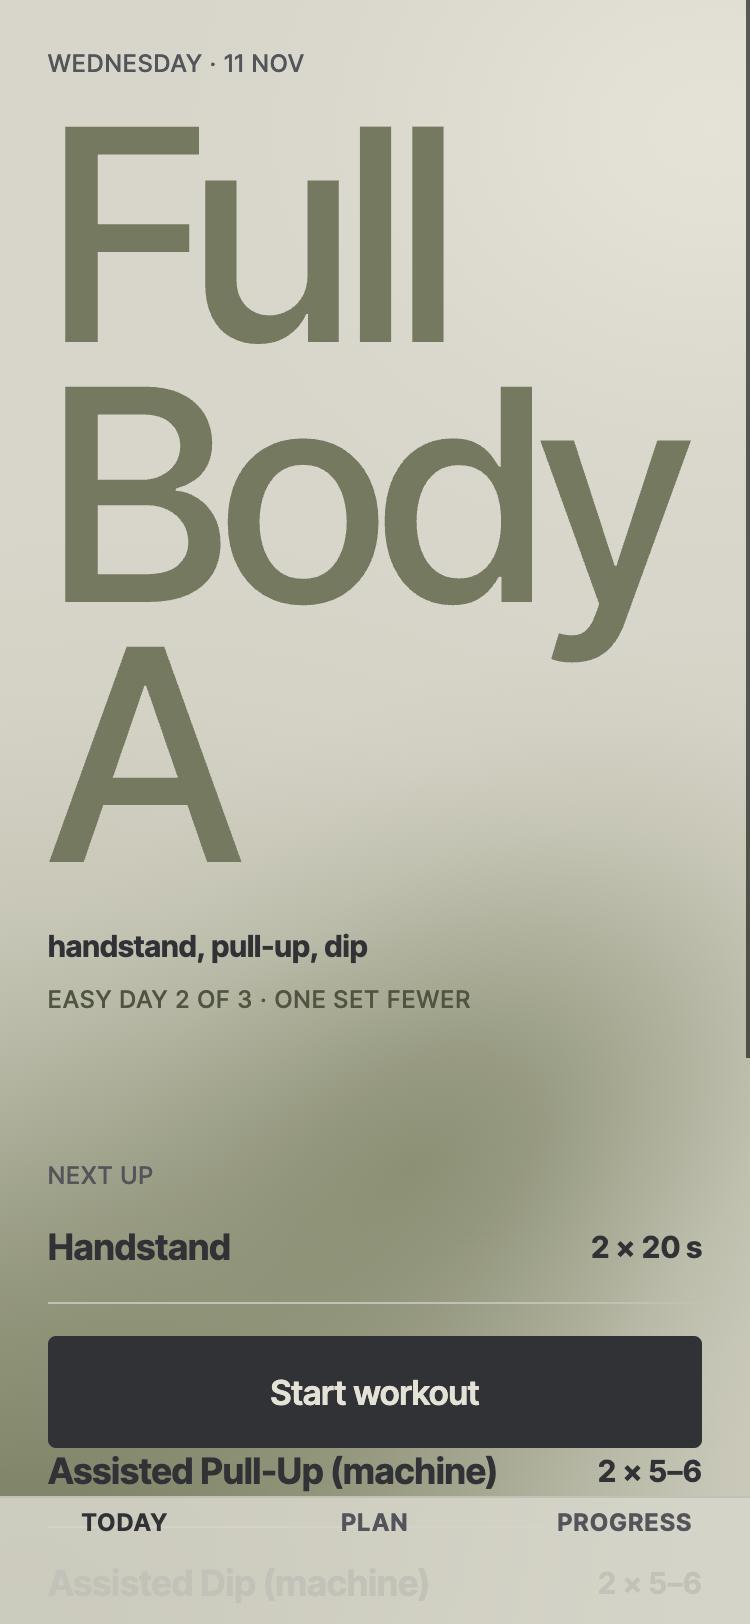
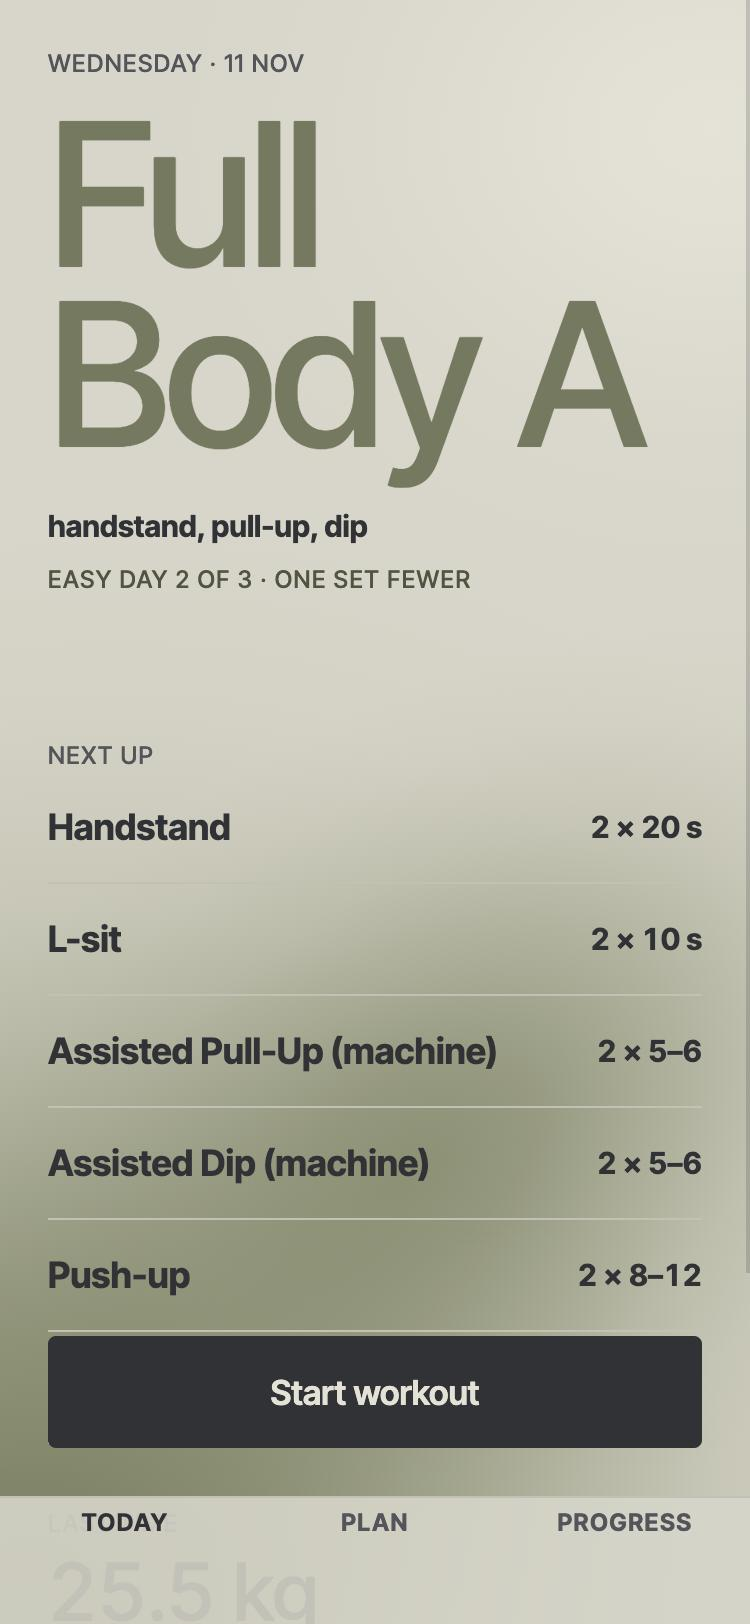
design: titles 100px

diff --git a/theme.ts b/theme.ts
@@ -29,8 +29,8 @@ export const fonts = {
 const tabular: TextStyle = { fontVariant: ["tabular-nums"] };
 
 export const type = {
-  display: { fontFamily: fonts.medium, fontSize: 148, lineHeight: 130, letterSpacing: -4.44, color: colors.accent } as TextStyle,
-  displayOnDark: { fontFamily: fonts.medium, fontSize: 148, lineHeight: 130, letterSpacing: -4.44, color: colors.accentOnDark } as TextStyle,
+  display: { fontFamily: fonts.medium, fontSize: 100, lineHeight: 90, letterSpacing: -3, color: colors.accent } as TextStyle,
+  displayOnDark: { fontFamily: fonts.medium, fontSize: 100, lineHeight: 90, letterSpacing: -3, color: colors.accentOnDark } as TextStyle,
   number: { fontFamily: fonts.medium, fontSize: 40, lineHeight: 44, color: colors.ink, ...tabular } as TextStyle,
   exercise: { fontFamily: fonts.bold, fontSize: 18, lineHeight: 22, color: colors.ink } as TextStyle,
   body: { fontFamily: fonts.regular, fontSize: 13, lineHeight: 18, color: colors.ink } as TextStyle,

diff --git a/app/(tabs)/index.tsx b/app/(tabs)/index.tsx
@@ -19,7 +19,7 @@ export default function Home() {
     <SafeAreaView style={s.screen} edges={["top"]}>
       <ScrollView contentContainerStyle={s.scroll}>
         <Text style={[type.label, { marginTop: 24 }]}>{DAY[now.getDay()]} · {now.getDate()} Nov</Text>
-        <Text style={[type.display, { marginTop: 12 }]}>{w ? w.title.split(" ").join("\n") : ""}</Text>
+        <Text style={[type.display, { marginTop: 12 }]}>{w ? w.title : ""}</Text>
         <Text style={[type.exercise, { marginTop: 20, fontSize: 15 }]}>{w ? w.subtitle : ""}</Text>
         <Text style={[type.labelAccent, { marginTop: 8 }]}>Easy day 2 of 3 · one set fewer</Text>
 

diff --git a/design/brief.md b/design/brief.md
@@ -22,7 +22,7 @@ No white anywhere. Beige is the background. Off-black for text and buttons.
 
 ## Type
 
-Inter Tight (OFL). Display (screen title): 148 px, weight 500, letter spacing -3%, one per screen, one word per line. About 3x the first version. 148 px is the largest size where "Body" still fits on a 375 px wide phone. Exercise names: 18 px bold (700). Logged numbers 40 px tabular. Labels 12 px uppercase, +6% letter spacing.
+Inter Tight (OFL). Display (screen title): 100 px, weight 500, letter spacing -3%, one per screen, wraps naturally (Lily chose 100 px on 2026-11-11; 148 px was the largest that fits a word per line). Exercise names: 18 px bold (700). Logged numbers 40 px tabular. Labels 12 px uppercase, +6% letter spacing.
 
 ## Background
 
